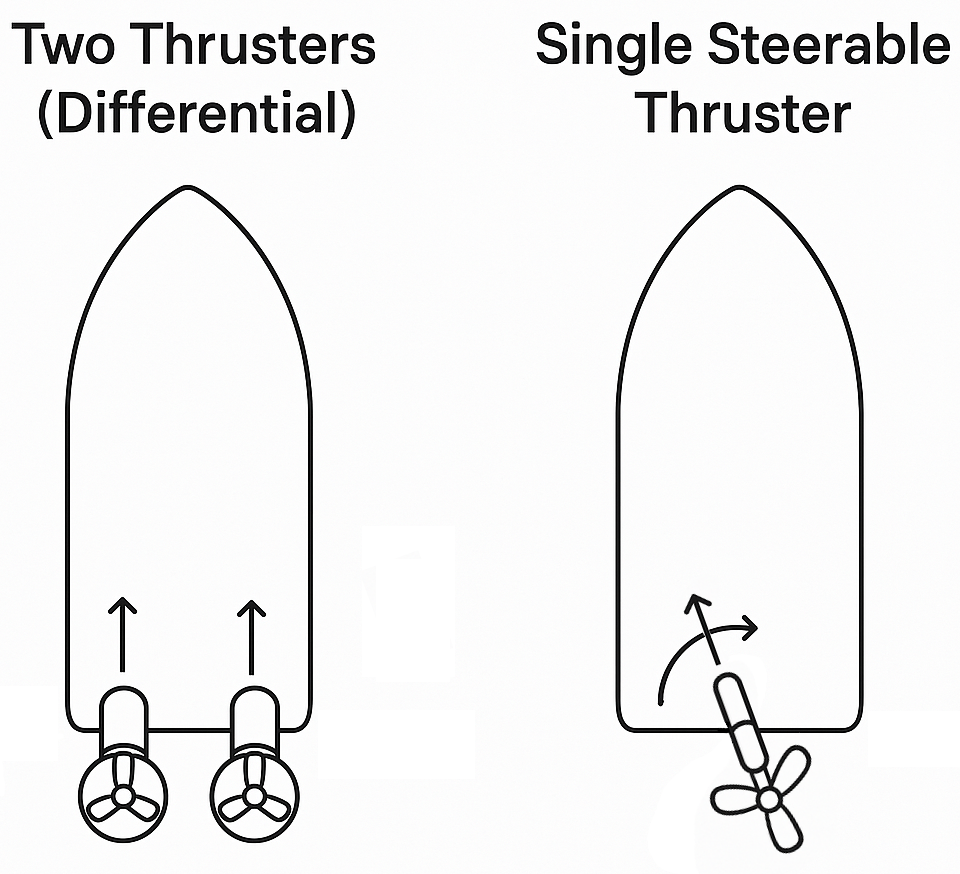
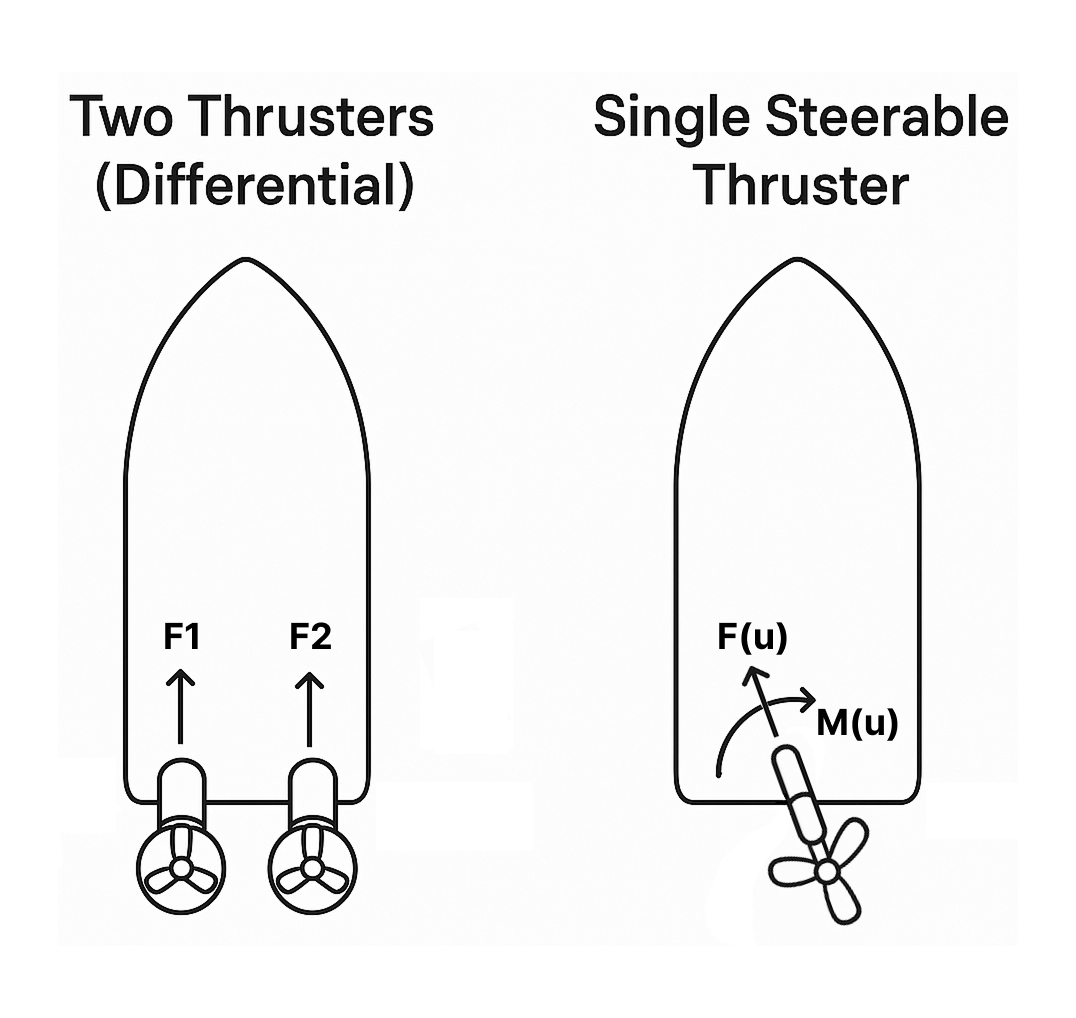
[Project 2] Add wind visualization; Update boat pictures from project 1

diff --git a/Project 2 Boat/simulator/visualization.py b/Project 2 Boat/simulator/visualization.py
@@ -7,8 +7,9 @@ from matplotlib.colors import Normalize
 from matplotlib.lines import Line2D
 
 class BoatVisualizer:
-    def __init__(self, mode='realtime', desired_trajectories=None, control_limits=None, boat_types=None):
+    def __init__(self, mode='realtime', desired_trajectories=None, control_limits=None, boat_types=None, wind_velocity=(0,0)):
         self.mode = mode
+        self.wind_velocity = np.array(wind_velocity)
         self.fig, self.ax = plt.subplots(figsize=(10, 8))
         self.boat_patches = []
         self.trajectory_lines = []
@@ -18,14 +19,20 @@ class BoatVisualizer:
         self.control_limits = control_limits
         self.boat_types = boat_types
         self.num_boats = len(boat_types)
-        # cmap = plt.cm.viridis  # You can replace with any continuous colormap
-        # norm = Normalize(vmin=0, vmax=len(self.boat_types))  # Normalize to the number of boats
         self.colors = plt.cm.tab20(np.linspace(0, 1, len(self.boat_types)))
         self.norms = {
             'differential': Normalize(0, control_limits['differential']),
             'steerable': Normalize(0, control_limits['steerable'][0])
         }
         self.cmap = plt.cm.Reds
+
+        # Wind visualization parameters
+        self.wind_dots = None
+        self.num_wind_dots = 100
+        self.wind_dot_positions = None
+        self.wind_dot_size = 4
+        self.wind_dot_alpha = 0.5
+        self.plot_limits = None  # Will be set during first update
 
         self.ax.set_title('Multi-Boat Trajectory Tracking')
         self.ax.set_xlabel('X Position')
@@ -34,17 +41,12 @@ class BoatVisualizer:
         self.ax.axis('equal')
         self.ax.set_aspect('equal', adjustable='box')
 
-        # for boat_type in set(boat_types):
-            # sm = ScalarMappable(norm=self.norms[boat_type], cmap=self.cmap)
-            # self.fig.colorbar(sm, ax=self.ax, label=f'{boat_type.capitalize()} Thrust (N)')
-
-        # Map one color to each boat type (first occurrence)
+        # Create legend handles for boat types
         type_to_color = {}
         for i, boat_type in enumerate(self.boat_types):
             if boat_type not in type_to_color:
                 type_to_color[boat_type] = self.colors[i]
 
-        # Save for later use in finalize()
         self.boat_type_legend_handles = [
             Line2D([0], [0], color=type_to_color[btype], lw=4, label=f'{btype.capitalize()} Boat')
             for btype in type_to_color
@@ -61,11 +63,70 @@ class BoatVisualizer:
         rotated_points = (rotation @ points).T + [x, y]
         return Polygon(rotated_points, closed=True, color=color, alpha=0.8)
 
-    def update(self, current_states, trajectories, current_step, controls):
+    def _initialize_wind_dots(self, x_lim, y_lim):
+        """Initialize wind dots within the given plot limits"""
+        self.wind_dot_positions = np.column_stack([
+            np.random.uniform(x_lim[0], x_lim[1], self.num_wind_dots),
+            np.random.uniform(y_lim[0], y_lim[1], self.num_wind_dots)
+        ])
+        self.wind_dots = self.ax.scatter(
+            self.wind_dot_positions[:, 0],
+            self.wind_dot_positions[:, 1],
+            s=self.wind_dot_size,
+            color='gray',
+            alpha=self.wind_dot_alpha,
+            marker='.',
+            label='Wind'
+        )
+
+    def _update_wind_dots(self, x_lim, y_lim, dt):
+        """Update wind dot positions and handle boundary conditions"""
+        if self.wind_dots is None:
+            return
+
+        # Move dots with wind velocity
+        self.wind_dot_positions += self.wind_velocity * dt
+
+        # Check boundaries and reset dots that go out of bounds
+        reach_x_max = self.wind_dot_positions[:, 0] > x_lim[1]
+        reach_x_min = self.wind_dot_positions[:, 0] < x_lim[0]
+        reach_y_max = self.wind_dot_positions[:, 1] > y_lim[1]
+        reach_y_min = self.wind_dot_positions[:, 1] < y_lim[0]
+
+        # reset dot coordinate
+        self.wind_dot_positions[reach_x_max, 0] = x_lim[0]
+        self.wind_dot_positions[reach_x_min, 0] = x_lim[1]
+        self.wind_dot_positions[reach_y_max, 1] = y_lim[0]
+        self.wind_dot_positions[reach_y_min, 1] = y_lim[1]
+
+        # Update scatter plot data
+        self.wind_dots.set_offsets(self.wind_dot_positions)
+
+    def update(self, current_states, trajectories, current_step, controls, dt):
+        trajectories = np.array(trajectories)
+
+        # Clear previous boat patches
         for patch in self.boat_patches:
             patch.remove()
         self.boat_patches = []
 
+        all_x = np.concatenate([traj[:, 0] for traj in trajectories])
+        all_y = np.concatenate([traj[:, 1] for traj in trajectories])
+        x_min, x_max = np.min(all_x), np.max(all_x)
+        y_min, y_max = np.min(all_y), np.max(all_y)
+        x_pad = (x_max - x_min) * 0.05
+        y_pad = (y_max - y_min) * 0.05
+        x_lim = (np.min(all_x) - x_pad, np.max(all_x) + x_pad)
+        y_lim = (np.min(all_y) - y_pad, np.max(all_y) + y_pad)
+        self.ax.set_xlim(x_lim)
+        self.ax.set_ylim(y_lim)
+
+        if self.wind_dots is None and np.any(self.wind_velocity != 0):
+            self._initialize_wind_dots(x_lim, y_lim)
+
+        self._update_wind_dots(x_lim, y_lim, dt=dt)
+
+        # Update boats
         for i in range(self.num_boats):
             x, y, psi = current_states[i]
             boat_color = self.colors[i % len(self.colors)]

diff --git a/Project 2 Boat/simulator/main.py b/Project 2 Boat/simulator/main.py
@@ -37,7 +37,8 @@ class Simulation:
             mode=self.mode,
             desired_trajectories=desired_trajs,
             control_limits=self.control_limits,
-            boat_types=self.boat_types
+            boat_types=self.boat_types,
+            wind_velocity=self.wind_velocity,
         )
 
     def simulate(self):
@@ -53,7 +54,7 @@ class Simulation:
 
             # Update visualization
             if frame % self.update_vis_every_n_frame == 0:
-                self.visualizer.update(states, self.trajectories, t, controls)
+                self.visualizer.update(states, self.trajectories, t, controls, self.dt * self.update_vis_every_n_frame)
         print("finalize")
         self.visualizer.create_target_phase_plot(self.trajectories, self.visualizer.desired_trajs, save_path='target_phase_plot.png')
         self.visualizer.finalize()
